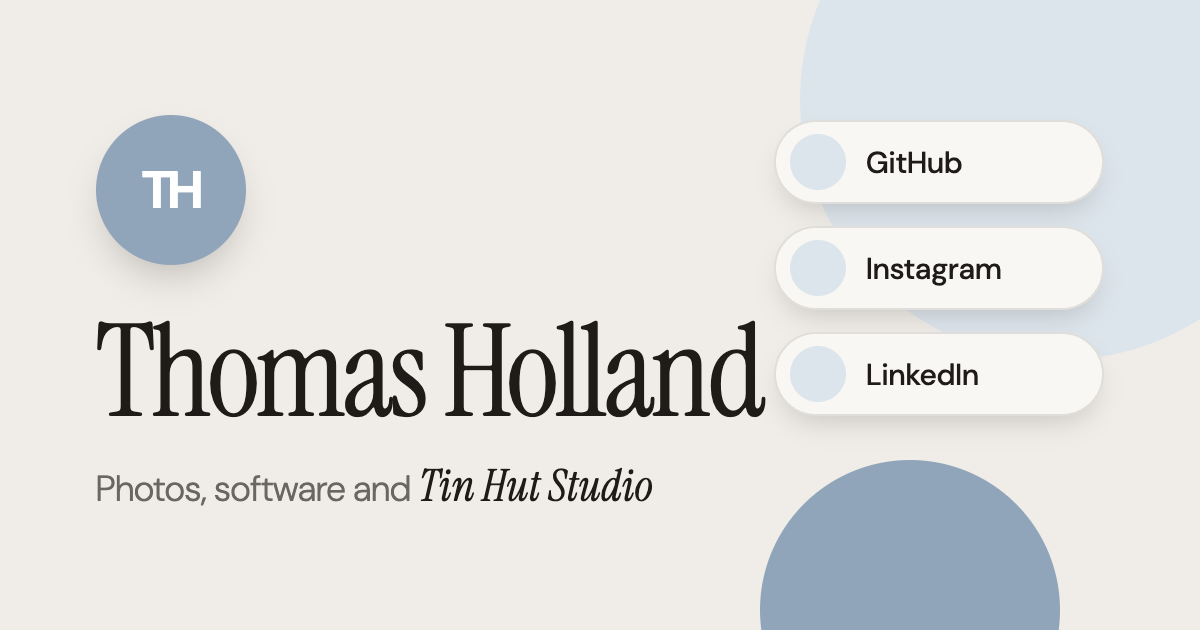
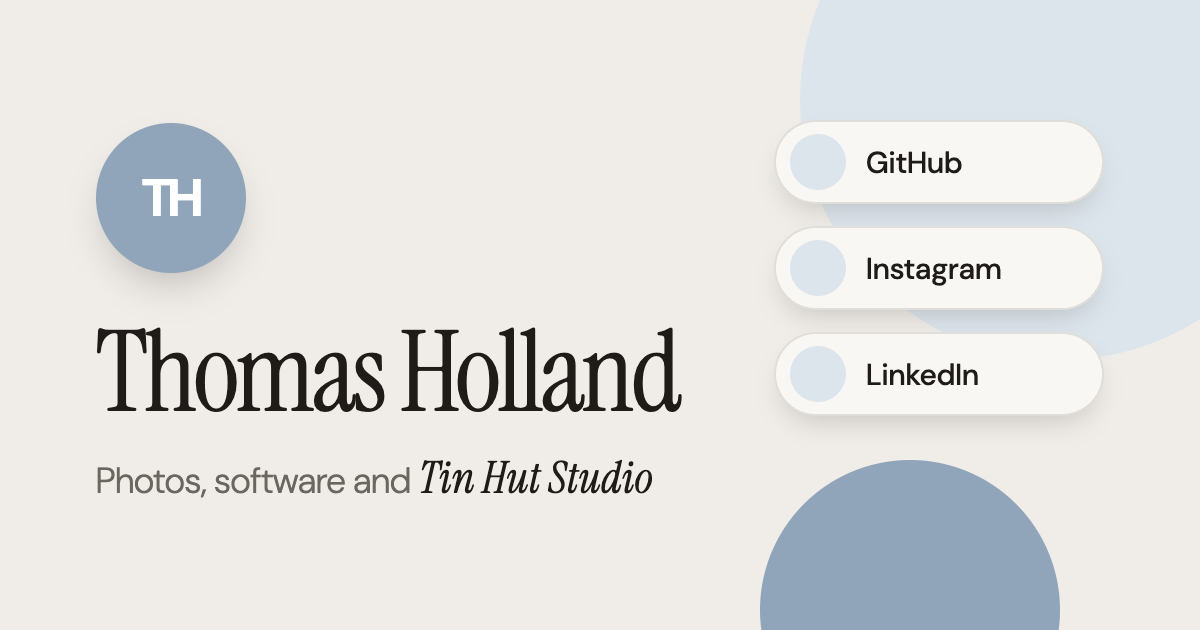
Tidy intro wording and OG headline size

diff --git a/assets/og.html b/assets/og.html
@@ -11,7 +11,7 @@ body{margin:0;width:1200px;height:630px;background:#f0ede8;color:#1e1b18;font-fa
 .b2{width:300px;height:300px;right:140px;bottom:-130px;background:#91a5ba}
 .wrap{position:absolute;left:96px;top:0;bottom:0;display:flex;flex-direction:column;justify-content:center}
 .av{width:150px;height:150px;border-radius:50%;background:#91a5ba;color:#fff;display:grid;place-items:center;font:700 52px "DM Sans";letter-spacing:-.06em;box-shadow:0 20px 40px -12px #1e1b1840}
-h1{font:400 128px/1 "Instrument Serif";letter-spacing:-.03em;margin:44px 0 20px}
+h1{font:400 112px/1 "Instrument Serif";letter-spacing:-.03em;margin:44px 0 20px}
 p{margin:0;font-size:36px;font-weight:300;color:#69675f}
 p em{font:italic 400 44px "Instrument Serif";color:#1e1b18}
 .pills{position:absolute;right:96px;top:120px;display:flex;flex-direction:column;gap:22px;width:330px}

diff --git a/style.css b/style.css
@@ -45,7 +45,7 @@ main{width:100%;max-width:26rem;text-align:center}
 }
 h1{margin:0;font:400 clamp(2.75rem,12vw,3.75rem)/1 "Instrument Serif",Georgia,serif;letter-spacing:-.03em}
 .intro{margin:1rem auto 2.25rem;max-width:22rem;color:var(--text-muted);font-size:1.0625rem;font-weight:300;line-height:1.6}
-.intro em{font:italic 400 1.2em/1 "Instrument Serif",Georgia,serif;color:var(--text)}
+.intro em{white-space:nowrap;font:italic 400 1.2em/1 "Instrument Serif",Georgia,serif;color:var(--text)}
 
 .links{margin:0;padding:0;list-style:none;display:grid;gap:.875rem}
 .links li{animation:pop .6s var(--bounce) both}

diff --git a/index.html b/index.html
@@ -31,7 +31,7 @@
 <main>
   <div class="avatar" aria-hidden="true">TH</div>
   <h1>Thomas Holland</h1>
-  <p class="intro">I take photos, build software, and run <em>Tin Hut Studio</em>. Say hello.</p>
+  <p class="intro">I take photos, build software, and make things at <em>Tin Hut Studio</em>.</p>
   <nav aria-label="Links">
     <ul class="links">
       <li>
